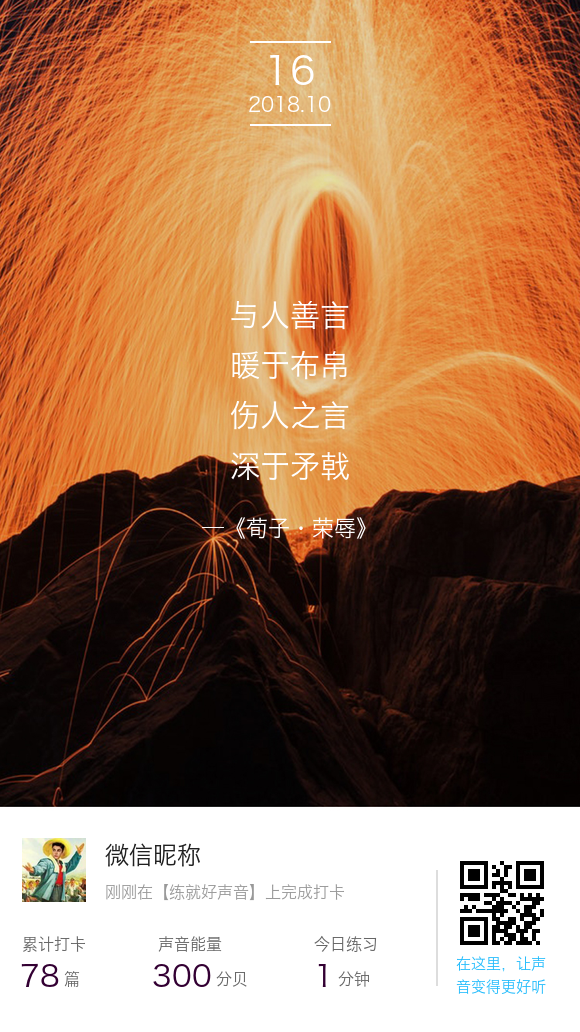
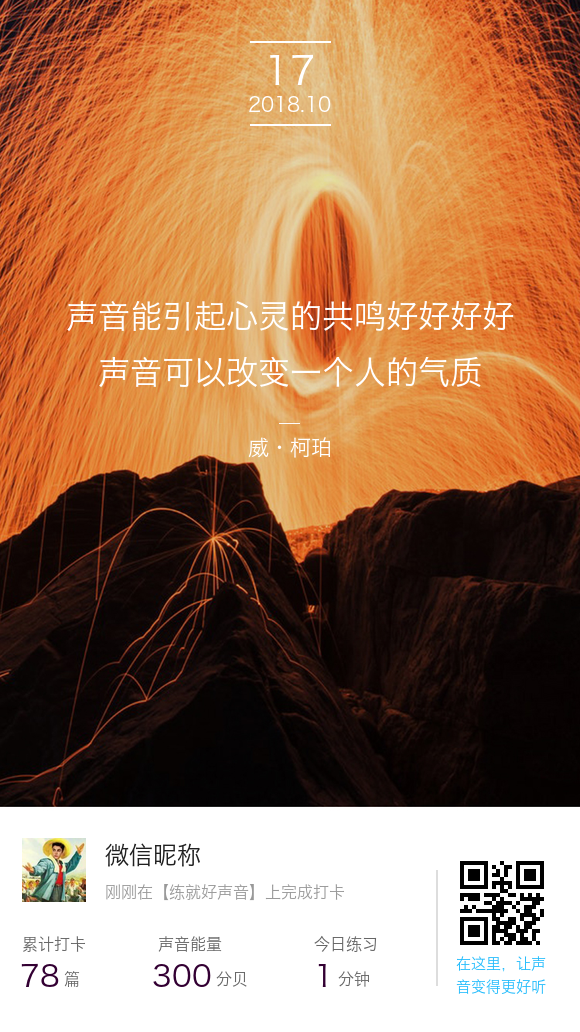
【修改】

diff --git a/daily_poster.py b/daily_poster.py
@@ -1,6 +1,7 @@
 import math
 import os
 import random
+import textwrap
 import urllib.request
 from datetime import datetime
 from io import BytesIO
@@ -11,16 +12,6 @@ from PIL import Image, ImageFont, ImageDraw
 
 class Test():
     def test(self):
-        # border = Image.open(r'C:\Users\Administrator\Desktop\开发笔记\mask.png')
-        # flower = Image.open(r'C:\Users\Administrator\Desktop\开发笔记\my_avator1.png')
-        # # source = border.convert('RGB')
-        # # flower.paste(source, mask=border)
-        # # flower.save('new.png')
-        #
-        # source = flower.convert('RGB')
-        # border.paste(source, mask=flower)
-        # border.save('new.png')
-
         # 打开图片
         background_img = Image.open(r'C:\Users\Administrator\Desktop\开发笔记\background.jpg')
         total_width = 580
@@ -42,17 +33,24 @@ class Test():
         draw.line([(250, 124), (330, 124)], fill='#fff', width=2)
 
         # 主题
-        content = self.get_poster_motto_by_chance()
+        content = '声音能引起心灵的共鸣好好好好 声音可以改变一个人的气质 —，威·柯珀'
         content_list = content.split(' ')
         for index, content in enumerate(content_list):
-            content_font = ImageFont.truetype('Hiragino SansGBW3.otf', 30)
-            author_font = ImageFont.truetype('Hiragino SansGBW3.otf', 22)
+            content_font = ImageFont.truetype('Hiragino SansGBW3.otf', 32)
+            author_font = ImageFont.truetype('Hiragino SansGBW3.otf', 21)
             content_w, _ = content_font.getsize(content)
-            author_w, _ = author_font.getsize(content)
             if '—' in content:
-                draw.text(((total_width - author_w) / 2, 300 + index * 54), content, font=author_font, fill='#fff')
+                split_content = content.split('，')
+                for author_index, author_content in enumerate(split_content):
+                    author_w, _ = author_font.getsize(author_content)
+                    if author_index == 0:
+                        draw.text(((total_width - author_w) / 2, 300 + index * 56), author_content, font=author_font,
+                                  fill='#fff')
+                    else:
+                        draw.text(((total_width - author_w) / 2, 300 + index * 56 + author_index * 24), author_content,
+                                  font=author_font, fill='#fff')
             else:
-                draw.text(((total_width - content_w) / 2, 300 + index * 50), content, font=content_font, fill='#fff')
+                draw.text(((total_width - content_w) / 2, 300 + index * 56), content, font=content_font, fill='#fff')
         # 中部内容框
         nickname = '微信昵称'
         sign = '刚刚在【{project_name}】上完成打卡'.format(project_name='练就好声音')
@@ -135,16 +133,6 @@ class Test():
         print(crop_avator_img_path)
         return crop_avator_img_path
 
-    def circle(self, img, size_x, size_y, antialias=4):
-        size_enlarge = (size_x * antialias, size_y * antialias)
-        img = img.resize((size_x, size_y))
-        mask = Image.new('L', size_enlarge, 0)
-        draw = ImageDraw.Draw(mask)
-        draw.ellipse((0, 0) + size_enlarge, fill=255)
-        mask = mask.resize(img.size, Image.ANTIALIAS)
-        img.putalpha(mask)
-        return img
-
     def get_daily_attendance_qr_code(self):
         """
         生成日签带参二维码
@@ -162,22 +150,6 @@ class Test():
         qr_img.save('qr_code_of_daily_attendance.jpg')
         qr_code_file_path = os.getcwd() + '/qr_code_of_daily_attendance.jpg'
         return qr_code_file_path
-
-    def get_poster_motto_by_chance(self):
-        """
-        从句子库中随机获得一句
-        :return:
-        """
-        file = open(r'C:\Users\Administrator\Desktop\开发笔记\motto.txt')
-        line_list = []
-        while True:
-            line = file.readline()
-            if not line:
-                break
-            line_list.append(line.strip())
-        file.close()
-        target_sentence = random.choice(line_list)
-        return target_sentence
 
 
 if __name__ == '__main__':
